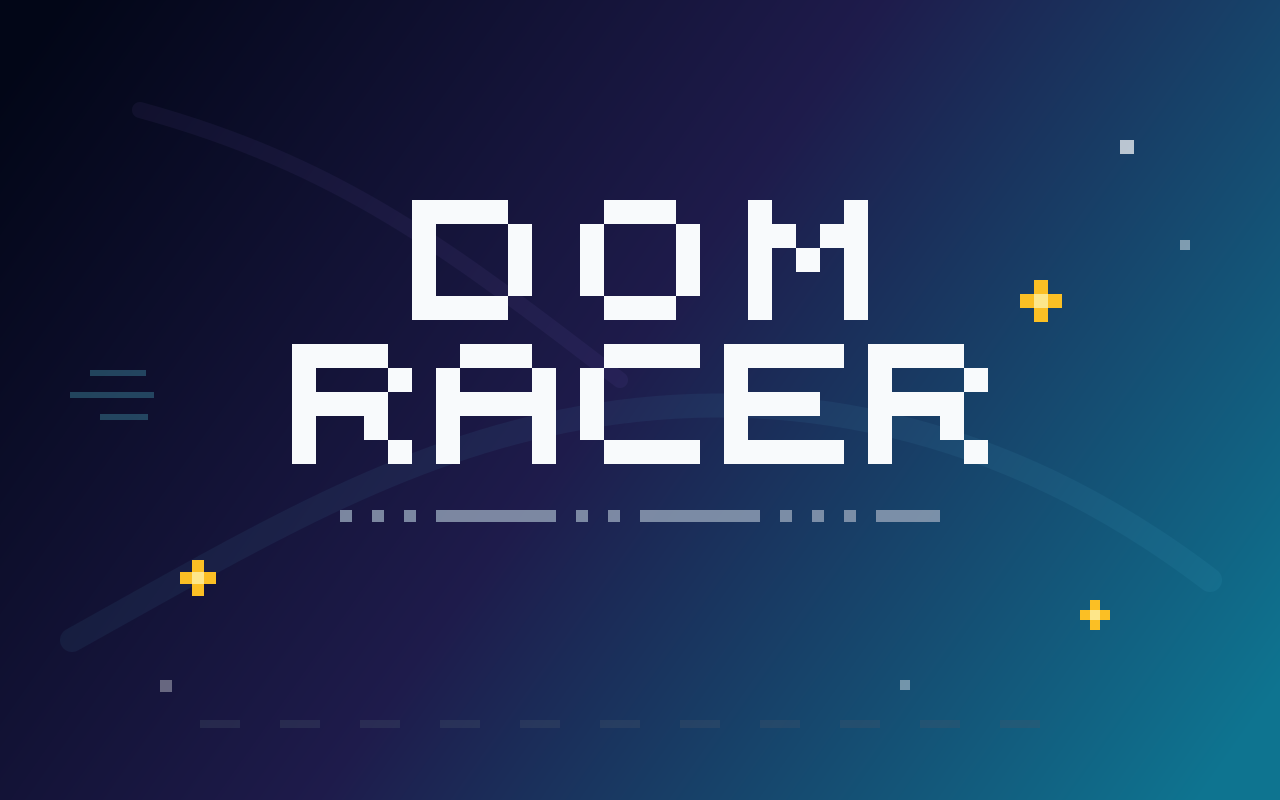
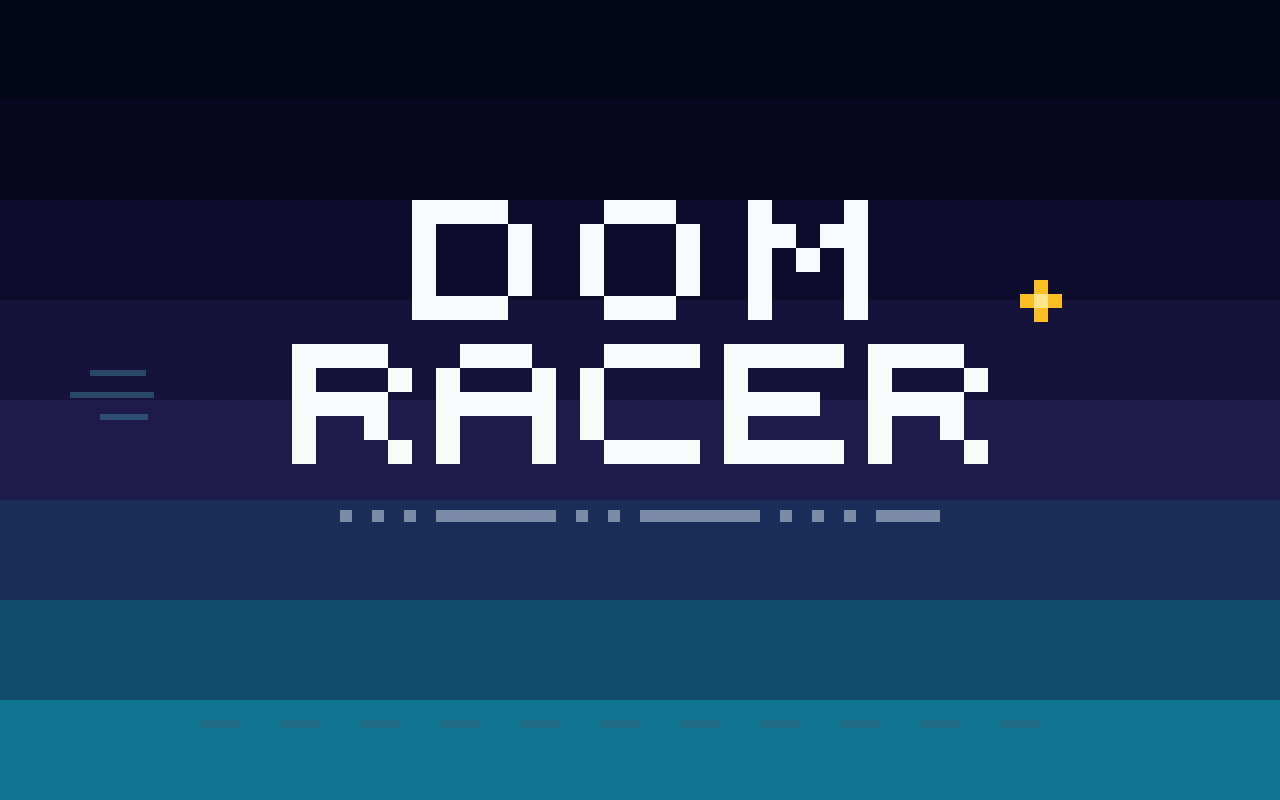
phase 19: 19C, 19D — pixel-art tile background, PNG regeneration, phase 19 closeout
Made-with: Cursor

diff --git a/SOUL.md b/SOUL.md
@@ -42,7 +42,7 @@ Playful, weird, stylish. Light indie-arcade energy — more "cool coding waiting
 - Sound enrichment, auto-pause, first-play hint, run counter, lifetime milestones
 - Code audit (Phase 13): config consistency verified, all scoring multiples of 10, timer interactions correct, economy flow coherent, dead code removed
 - Design review (Phase 13): all 10 game systems have distinct non-overlapping purposes, difficulty curve matches SOUL.md arc
-- Branding refresh: icon, store cover, and store tile SVGs use the in-game coupe sprite silhouette
+- Branding refresh: icon, store cover, and store tile SVGs use pixel-art stepped color band backgrounds (purple → cyan palette) with the in-game coupe sprite silhouette
 - Phase 14 UX truth pass: HUD controls fix (WASD/ARROWS, M key prefix, fixed layout), center-biased spawn, form control scanning, overgrowth ladder rewrite, special pickup shape grouping
 
 ## Controls
